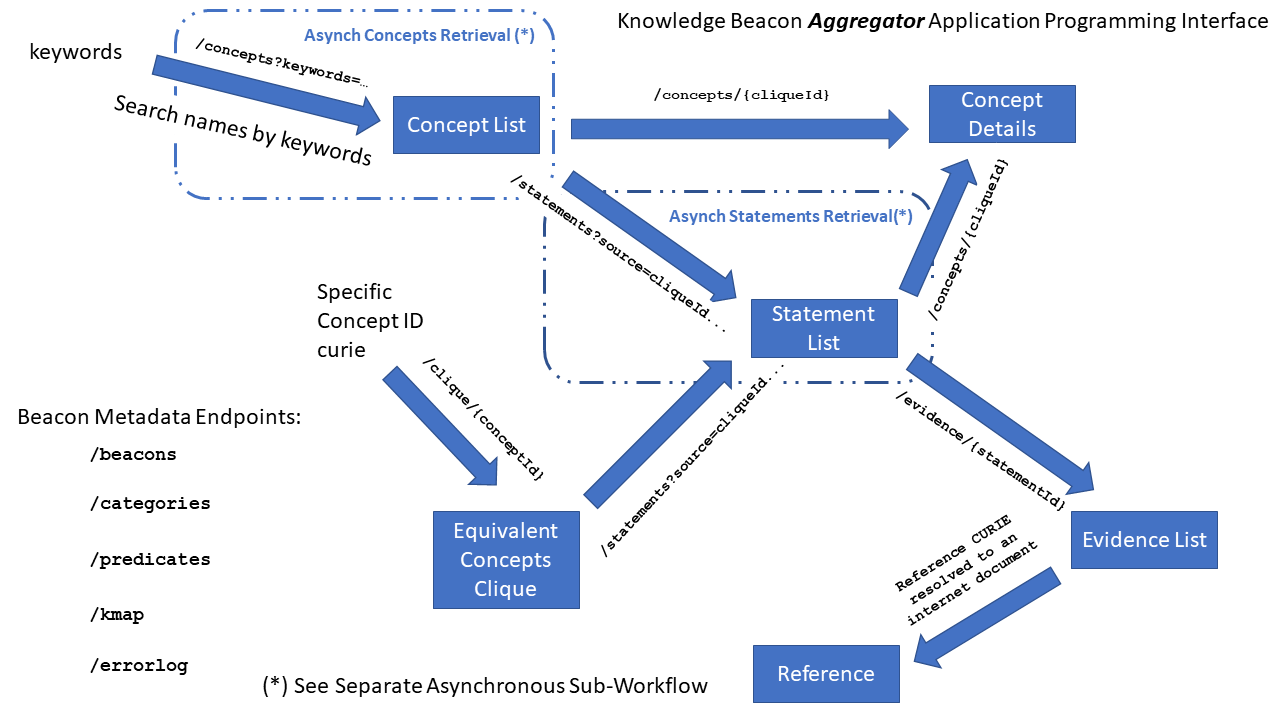
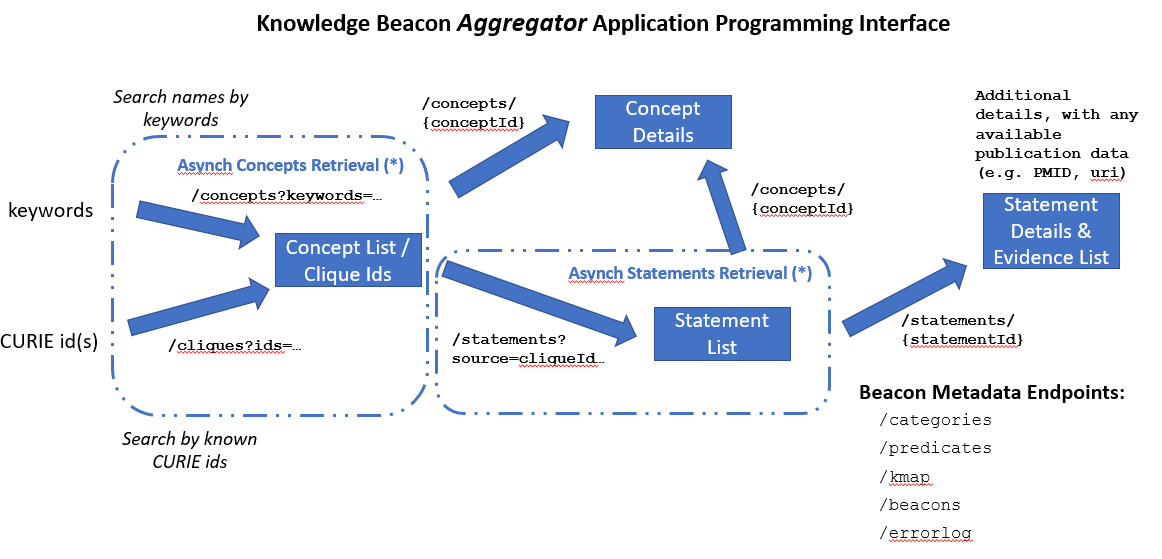
updated workflow PNGs, added link to Beacon github

diff --git a/README.md b/README.md
@@ -4,7 +4,7 @@ The [Knowledge Source Application Programming Interface ("KSAPI")](https://githu
 
 The **KSAPI** is currently documented as a Swagger 2.0 API REST specification [1].
 
-This project, the [Knowledge Beacon Aggregator ("KBA")]() is similarly specified as a Swagger 2.0 web service API on top of a web services application which provides various value added features to the [Knowledge Beacon]() world. That is, the **KBA**:
+This project, the [Knowledge Beacon Aggregator ("KBA")]() is similarly specified as a Swagger 2.0 web service API on top of a web services application which provides various value added features to the [Knowledge Beacon](https://github.com/NCATS-Tangerine/translator-knowledge-beacon) world. More specifically, the **KBA**:
 
 1. Provides a single web source point of entry for querying across a network of registered Knowledge Beacons which implement the **KSAPI** and which support Knowledge Graph building standards such as the Biolink Model concept types and predicates.
 
@@ -14,13 +14,13 @@ This project, the [Knowledge Beacon Aggregator ("KBA")]() is similarly specified
 
 3. Has the */beacons* endpoint that returns a *Beacon Id* indexed list of registered beacons.   Note that the *Beacon Id* is a **KBA** generated (not global) beacon identification number, a list of which can be used as an additional input parameter to other **KBA** calls when needed to constrain the scope of the API call to a specified subset of beacons.
 
-4. Has the */errorlog* endpoint which returns a partial *Session Id* indexed log of beacon endpoint calls that were made with that *Session Id*. Note that the *Session Id* is simply a unique string provided to various **KBA** endpoint calls as a parameter, by clients calling the **KBA**.  **KBA** simply uses that string value to tag the log output from the given endpoint call for later retrieval by the */errorlog* endpoint call. 
+4. Has the */errorlog* endpoint which returns a partial *Query Id* indexed log of beacon endpoint calls that were made with that *Query Id*. Note that the *Session Id* is simply a unique string provided to various **KBA** endpoint calls as a parameter, by clients calling the **KBA**.  **KBA** simply uses that string value to tag the log output from the given endpoint call for later retrieval by the */errorlog* endpoint call. 
 
 5. Constructs "cliques" of (CURIE formatted) equivalent concept identifiers directly harvested from beacons using */exactmatches*  **KSAPI** endpoints, plus the application of additional heuristics (such as checking if the concept names look like HGNC gene symbols, etc.).  Each clique is identified using a 'canonical' concept CURIE, which itself serves as a unified concept id specification for several endpoints returning aggregated beacon results relating to those cliques and is assigned by an ordering of precedence of CURIE name spaces (i.e. more specific universally accepted identifiers are preferred over more generic identifiers, e.g. NCBIgene Ids trump WikiData ids...).  The **KBA** also provides an endpoint */clique* which resolves concept CURIEs into a clique.
 
 6. The **KBA** provides some facilities for **KBA** caching concepts and relationships ("knowledge subgraphs") returned, to improve query performance when concepts and relationships are revisited after their initial retrieval from the beacon network. This is, in effect, a kind of local 'blackboard' of retrieved knowledge [2].
 
-7. The latest version of KBA manages the /concepts and /statments endpoints as [asychronous queries](https://github.com/NCATS-Tangerine/beacon-aggregator/issues/33) with a three step process: 1) posting query parameters, 2) checking query status and 3) retrieving data when available.
+7. The latest version of KBA manages the /concepts, /cliques, and /statements endpoints as [asychronous queries](https://github.com/NCATS-Tangerine/beacon-aggregator/issues/33) with a three step process: 1) posting query parameters, 2) checking query status and 3) retrieving data when available.
 The UML-like Sequence diagram here below illustrates the asynchrononous workflow:
 
 ![KBA Asynchronous Query Workflow](https://github.com/NCATS-Tangerine/beacon-aggregator/blob/develop/docs/KBA_Asynch_Workflow.png "Knowledge Beacon Aggregator /concepts and /statements Asychronous Query Workflow")
@@ -41,7 +41,7 @@ The first decision you need to make is where (on what Linux server) to run the a
  
 2) Within a suitably configured Linux Virtual Machine (e.g. VMWare, Parallels, VirtualBox, Amazon Web Services, OpenStack etc.)
 
-Your choice of Linux operating system is not too critical except that the specific details on how to configure the system may differ between Linux flavors. For the moment, we are working here with a recent 'latest' release (i.e. 16.04) of Ubuntu server.
+Your choice of Linux operating system is not too critical except that the specific details on how to configure the system may differ between Linux flavors. For the moment, we are working here with Ubuntu 16.04.
 
 ## Getting the Software
 
@@ -113,7 +113,7 @@ The KBA project is written in the Java computing language as a Gradle build. Thu
 
 The first task that needs to be done before building the code is configuration. To protect sensitive settings from becoming accidentally visible, these are given as templates that must be copied. It is set up so that git ignores them and won't push these copied configurations if you update the code.
 
-If you are in the directory in which the project code for beacon-aggregator was cloned (i.e. /opt/kba/beacon-aggregator), change your directory to the resources file of the server subproject, then copy over the **applications.property-template** and **ogm.property-template** files into their corresponding property files (just remove the "-template" part of the file name):
+If you are in the directory in which the project code for beacon-aggregator was cloned (i.e. /opt/kba/beacon-aggregator), change your directory to the resources file of the server subproject (opt/kba/beacon-aggregator/server/src/main/resources), then copy over the **applications.properties-template** and **ogm.properties-template** files into **applications.properties** and **ogm.properties** (just remove the "-template" part of the file name):
 
 ```
 # Move to the directory where configuration is located
@@ -127,7 +127,7 @@ $ cp ogm.properties-template ogm.properties
 ```
 Once these two properties file are created, open them with your favorite text editor and review their contents to set the properties for possible customization to your site conditions and how you plan to run the software (outside or inside docker, with or without pointing to the official registry of beacons or a local beacon list.  Some needed configurations will be explained when we run the Docker build).
 
-The registry of beacons used by KBA are currently specified as an external YAML file which the location of which is specified within the by the *beacon-yaml-list* property in the **applications.property** file. If you are happy to use the standard NCATS reference list of beacons, point this property to [here](https://raw.githubusercontent.com/NCATS-Tangerine/translator-knowledge-beacon/develop/api/knowledge-beacon-list.yaml).  However, you may substitute your own local YAML file, as long as the same YAML 
+The registry of beacons used by KBA are currently specified as an external YAML file which the location of which is specified within the by the *beacon-yaml-list* property in the **applications.properties** file. If you are happy to use the standard NCATS reference list of beacons, point this property to [here](https://raw.githubusercontent.com/NCATS-Tangerine/translator-knowledge-beacon/develop/api/knowledge-beacon-list.yaml).  However, you may substitute your own local YAML file, as long as the same YAML 
 field names are properly populated with beacon metadata (and active beacons tagged as Status: 'deployed').
 
 ### Building for Docker Containers
@@ -183,7 +183,7 @@ Where *<password>* is your chosen Neo4j password (can be set using the Neo4j web
 
 In any case, after building the application using *gradle*, you can run:
  
- 1. **Run .. As Java Application**: the Swagger2SpringBoot class in the *server* subproject inside the *bio.knowledge.server package*.
+ 1. **Run .. As Java Application**: the Swagger2SpringBoot class in the *server* subproject inside the *bio.knowledge.server package* (server/src/main/java/bio/knowledge/server/Swagger2SpringBoot.java)
  
  or
  
@@ -333,7 +333,7 @@ $ sudo docker-compose -f docker-compose.yml  up
 $ sudo docker-compose -f docker-compose.yml -f /path/to/my/docker-compose-mysite.yml up
 ```
 
-You should now see KBA running in your web browser at **http://localhost:8080** (note that you can override this port mapping in an override or subsitute copy of the docker-compose.yaml file)
+You should now see KBA running in your web browser at **http://localhost:8080** (note that you can override this port mapping in an override or subsitute copy of the docker-compose.yml file)
 
 To turn the KBA Docker container off, type the following:
 
